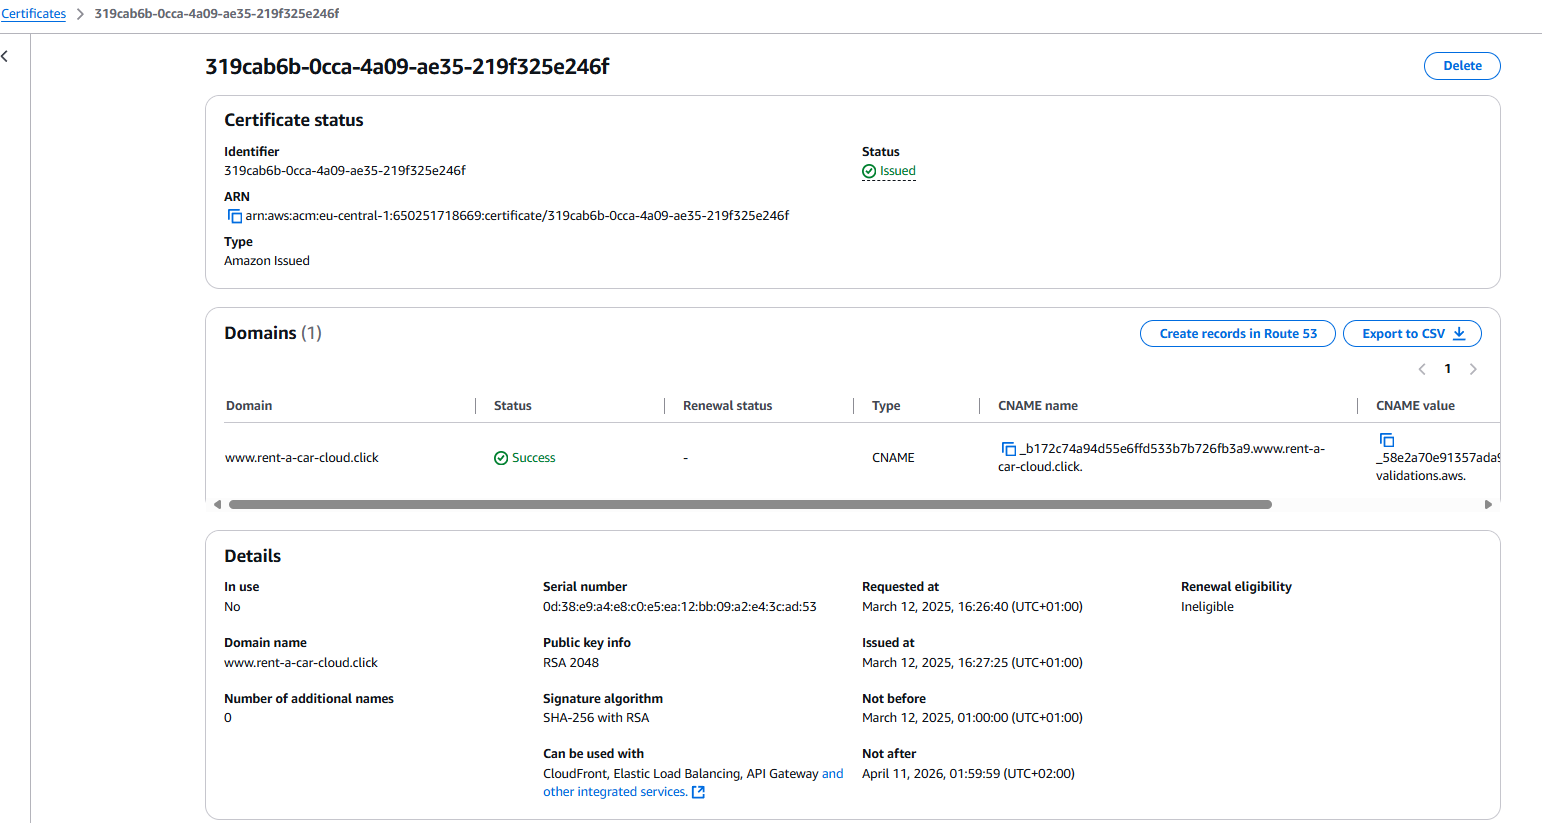
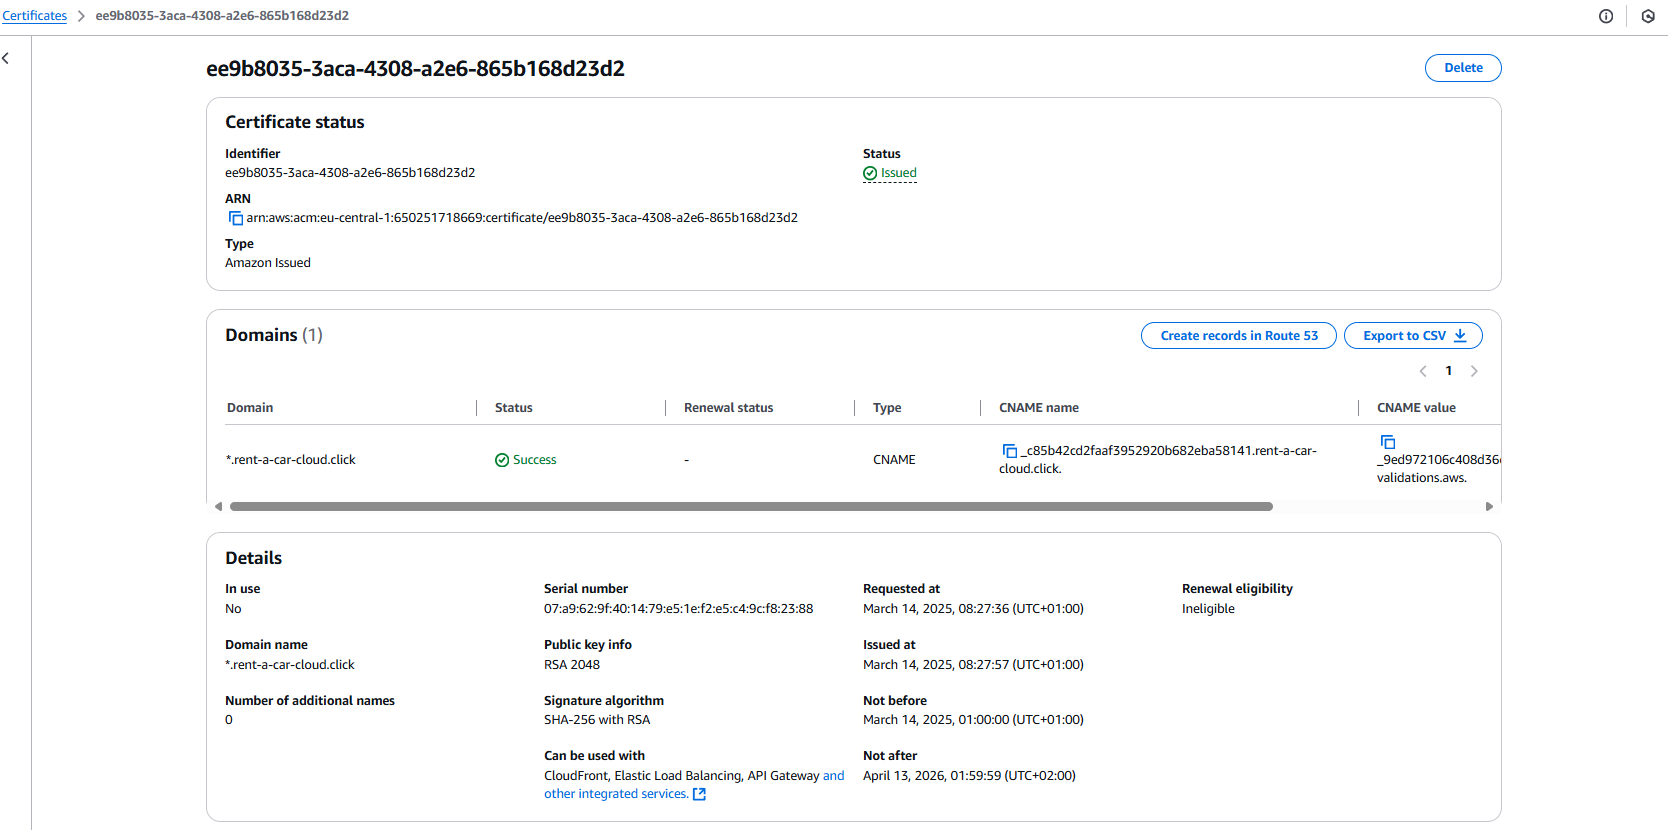
docs: update certificate request with wildcard so that it can be reused for fe and be

diff --git a/docs/infrastructure/Debugging.md b/docs/infrastructure/Debugging.md
@@ -17,19 +17,19 @@ eb init
 # Select region used and application, and "n" for CodeCommit
 # Now you can use eb commands in this project
 
-# Check status of the environment
-eb status rac-app-env
+# Check status of the environment (e.g. frontend env)
+eb status rac-app-env-fe
 
 # Request logs using AWS EB CLI: https://docs.aws.amazon.com/elasticbeanstalk/latest/dg/eb3-logs.html
-eb logs rac-app-env --zip && unzip -o .elasticbeanstalk/logs/*.zip -d .elasticbeanstalk/logs
+eb logs rac-app-env-fe --zip && unzip -o .elasticbeanstalk/logs/*.zip -d .elasticbeanstalk/logs
 # eb logs -> Downloads the logs to .elasticbeanstalk/logs/ with a timestamped filename.
 # LATEST_ZIP -> Finds the most recent zip file in .elasticbeanstalk/logs/.
 # unzip -> Extracts the logs inside .elasticbeanstalk/logs/.
 # rm "$LATEST_ZIP" -> Removes the zip file after extraction.
 
 # If you encounter unexpected problems, like:
-poetoec@LAPTOP-IA1OBTR5:/mnt/c/Users/cpoet/IdeaProjects/DevOpsCourse_Project$ eb status rac-app-env
-ERROR: NotFoundError - Environment "rac-app-env" not Found.
+poetoec@LAPTOP-IA1OBTR5:/mnt/c/Users/cpoet/IdeaProjects/DevOpsCourse_Project$ eb status rac-app-env-fe
+ERROR: NotFoundError - Environment "rac-app-env-fe" not Found.
 # You can manually remove the .elasticbeanstalk folder in the root of the project and run "eb init" again, then try again
 
 # You can try accessing the deployed instance with curl as well, such as accessing the deployed backend:
@@ -40,5 +40,12 @@ curl http://rac-app-env.eba-tb7prr3h.eu-central-1.elasticbeanstalk.com:4001/api/
 curl http://rac-app-env.eba-tb7prr3h.eu-central-1.elasticbeanstalk.com
 # A lot of times it is not working because of security rules. For example, adding an inbound TCP rule for port 4001 with "0.0.0.0/0" in the security group of the AWS EB environment fixed backend not accessible problem (problem was timing out or saying not accessible)
 
-# If you encounter more weird errors with Elastic Beanstalk, such as infinite loading, etc., you can try restarting and/or removing the environment using Terraform (see infrastructure/docs/Terraform.md) and then try again.
+# If you encounter more weird errors with Elastic Beanstalk, such as infinite loading when redeploying, etc., you can try restarting and/or completely removing the environment using Terraform (see infrastructure/docs/Terraform.md) and then try again.
+# To restart, go to the environment and select Actions > Restart app server(s)
+# To completely remove and recreate, see infrastructure/docs/Terraform.md
+
+# SSH access:
+# Alternatively, you can also use SSH to go into the EC2 instance as a last resort to manually look at the logs. For this you need to setup SSH before deploying, you can add that in Terraform by adding a key pair, or you can use eb ssh --setup for example and then redeploy: https://docs.aws.amazon.com/elasticbeanstalk/latest/dg/eb3-ssh.html
+# You can then go to /var/log to look at the logs of the EC2 instance for example after accessing the EC2 instance with SSH
+# But this is mainly a last resort option to manually look at the logs
 ```

diff --git a/docs/infrastructure/Domains_Cerficiation.md b/docs/infrastructure/Domains_Cerficiation.md
@@ -18,7 +18,9 @@ Full documentation: https://docs.aws.amazon.com/acm/
 
 After following the previous steps, you can get a certificate for the domain, see: https://docs.aws.amazon.com/acm/latest/userguide/acm-public-certificates.html
 
-You will request a public certificate, for example for the above domain record, use DNS validation. After requesting the certificate, click on "Create record in Route 53" and select the above created domain. Then after a few minutes, you should see a success and issued status:
+You will request a public certificate, for example for the above domain record, use DNS validation. You should use a wildcard in front of the domain name created with Route 53 so that this certificate can be reused for different services, such as: *.rent-a-car-cloud.click. Then you can use www.rent-a-car-cloud.click for the frontend and api.rent-a-car-cloud.click for the backend for example.
+
+After requesting the certificate, click on "Create record in Route 53" and select the above created domain. Then after a few minutes, you should see a success and issued status:
 ![alt text](../assets/AWS_ACM_ReqPubCert.png)
 
 The created record should be visible as CNAME in the records for the AWS Route 53 domain:
